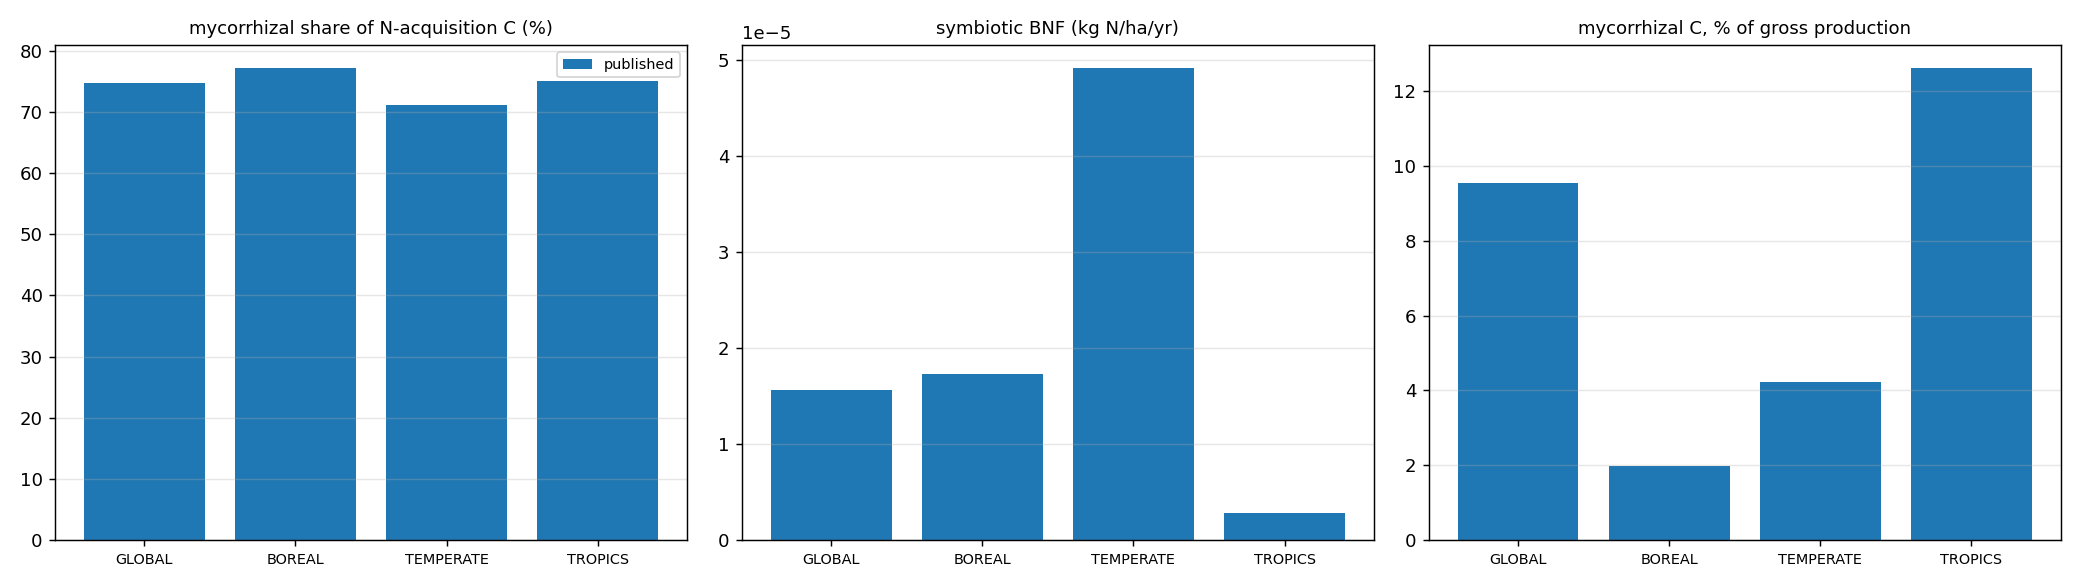
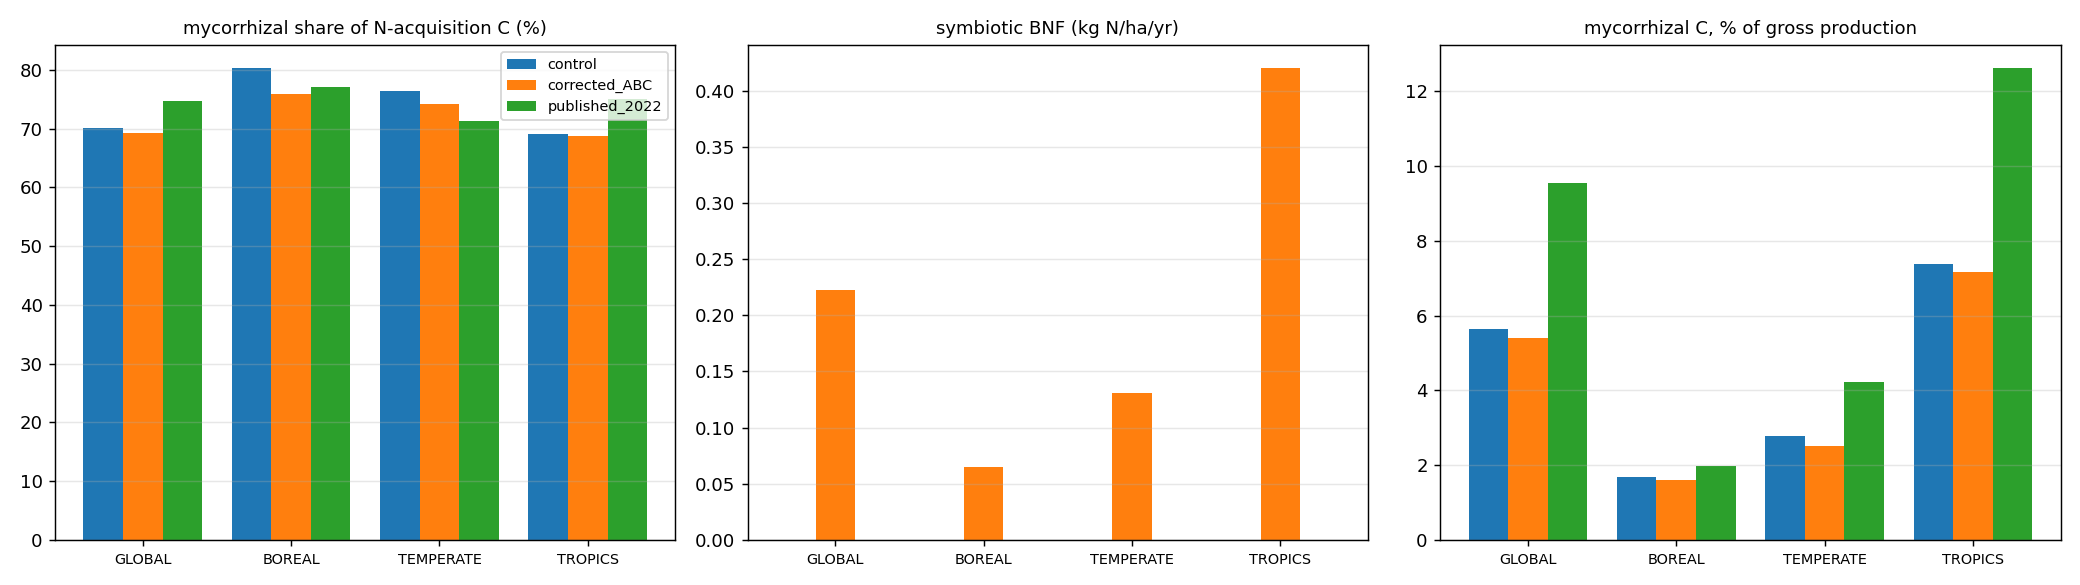
Automated end-of-run analysis: control vs corrected chains

diff --git a/analysis/CHAIN_REPORT.md b/analysis/CHAIN_REPORT.md
@@ -1,96 +1,96 @@
 # Control vs corrected — last decade of transient (area-weighted)
 
-Runs: published. Differences are relative to `published`.
+Runs: control, corrected_ABC, published_2022. Differences are relative to `control`.
 
 
 ## GLOBAL
 
-| quantity | published |  |
-|---|---|
-| NPP gC/m2/yr | 189 |  |
-| GPP gC/m2/yr | 768 |  |
-| TOTVEGC kgC/m2 | 2.94 |  |
-| TOTSOMC kgC/m2 | 13.8 |  |
-| TOTECOSYSC kgC/m2 | 17.3 |  |
-| TOTVEGN gN/m2 | 55.2 |  |
-| SMINN gN/m2 | 36.8 |  |
-| myc %N-acq C | 74.7 |  |
-| nonmyc %N-acq C | 24.7 |  |
-| fix %N-acq C | 0.0262 |  |
-| AM share of myc N-C % | nan |  |
-| P myc %P-acq C | 47.2 |  |
-| myc C gC/m2/yr | 23.2 |  |
-| myc C % gross prod | 9.56 |  |
-| FUN cost % gross prod | 22.3 |  |
-| symbiotic NFIX kgN/ha/yr | 1.56e-05 |  |
-| free-living FFIX kgN/ha/yr | 2.67 |  |
-| realized fix cost gC/gN | 3.88e+03 |  |
+| quantity | control | corrected_ABC | published_2022 | Δ corrected_ABC−control | Δ published_2022−control |
+|---|---|---|---|---|---|
+| NPP gC/m2/yr | 253 | 254 | 189 | +1.14 | -64.5 |
+| GPP gC/m2/yr | 849 | 850 | 768 | +1.52 | -80.7 |
+| TOTVEGC kgC/m2 | 2.97 | 2.98 | 2.94 | +0.00484 | -0.0316 |
+| TOTSOMC kgC/m2 | 13.8 | 13.8 | 13.8 | +0.0179 | -0.027 |
+| TOTECOSYSC kgC/m2 | 17.4 | 17.4 | 17.3 | +0.0238 | -0.0613 |
+| TOTVEGN gN/m2 | 56.4 | 56.6 | 55.2 | +0.16 | -1.2 |
+| SMINN gN/m2 | 36.3 | 36.4 | 36.8 | +0.045 | +0.524 |
+| myc %N-acq C | 70.1 | 69.3 | 74.7 | -0.791 | +4.64 |
+| nonmyc %N-acq C | 22.3 | 22.2 | 24.7 | -0.117 | +2.4 |
+| fix %N-acq C | 0.0313 | 0.906 | 0.0262 | +0.875 | -0.00514 |
+| AM share of myc N-C % | 91 | 92.1 | nan | +1.17 | +nan |
+| P myc %P-acq C | 50.2 | 50.2 | 47.2 | -0.00555 | -3.02 |
+| myc C gC/m2/yr | 17.2 | 16.4 | 23.2 | -0.774 | +6.06 |
+| myc C % gross prod | 5.65 | 5.39 | 9.56 | -0.257 | +3.91 |
+| FUN cost % gross prod | 16.6 | 16.3 | 22.3 | -0.338 | +5.69 |
+| symbiotic NFIX kgN/ha/yr | 1.69e-05 | 0.223 | 1.56e-05 | +0.223 | -1.3e-06 |
+| free-living FFIX kgN/ha/yr | 2.69 | 2.69 | 2.67 | +0.00124 | -0.0151 |
+| realized fix cost gC/gN | 3.8e+03 | 7.97 | 3.88e+03 | -3.79e+03 | +82.3 |
 
 ## BOREAL >50N
 
-| quantity | published |  |
-|---|---|
-| NPP gC/m2/yr | 133 |  |
-| GPP gC/m2/yr | 451 |  |
-| TOTVEGC kgC/m2 | 2.11 |  |
-| TOTSOMC kgC/m2 | 31 |  |
-| TOTECOSYSC kgC/m2 | 33.7 |  |
-| TOTVEGN gN/m2 | 42.5 |  |
-| SMINN gN/m2 | 110 |  |
-| myc %N-acq C | 77.2 |  |
-| nonmyc %N-acq C | 21.9 |  |
-| fix %N-acq C | 0.249 |  |
-| AM share of myc N-C % | nan |  |
-| P myc %P-acq C | 54.5 |  |
-| myc C gC/m2/yr | 2.83 |  |
-| myc C % gross prod | 1.97 |  |
-| FUN cost % gross prod | 7.73 |  |
-| symbiotic NFIX kgN/ha/yr | 1.73e-05 |  |
-| free-living FFIX kgN/ha/yr | 1.56 |  |
-| realized fix cost gC/gN | 1.69e+03 |  |
+| quantity | control | corrected_ABC | published_2022 | Δ corrected_ABC−control | Δ published_2022−control |
+|---|---|---|---|---|---|
+| NPP gC/m2/yr | 176 | 176 | 133 | -0.072 | -43.3 |
+| GPP gC/m2/yr | 503 | 503 | 451 | -0.255 | -52.1 |
+| TOTVEGC kgC/m2 | 2.12 | 2.12 | 2.11 | -0.000288 | -0.0167 |
+| TOTSOMC kgC/m2 | 31 | 31 | 31 | +0.000648 | +0.000815 |
+| TOTECOSYSC kgC/m2 | 33.7 | 33.7 | 33.7 | +0.000187 | -0.0167 |
+| TOTVEGN gN/m2 | 42.7 | 42.7 | 42.5 | +0.0251 | -0.212 |
+| SMINN gN/m2 | 109 | 109 | 110 | +0.129 | +0.226 |
+| myc %N-acq C | 80.3 | 76 | 77.2 | -4.32 | -3.12 |
+| nonmyc %N-acq C | 18.8 | 18 | 21.9 | -0.793 | +3.16 |
+| fix %N-acq C | 0.245 | 5.6 | 0.249 | +5.36 | +0.00404 |
+| AM share of myc N-C % | 36.5 | 38 | nan | +1.48 | +nan |
+| P myc %P-acq C | 54.5 | 54.5 | 54.5 | -0.00944 | -0.0132 |
+| myc C gC/m2/yr | 3.18 | 3.02 | 2.83 | -0.159 | -0.346 |
+| myc C % gross prod | 1.69 | 1.61 | 1.97 | -0.0827 | +0.283 |
+| FUN cost % gross prod | 6.59 | 6.52 | 7.73 | -0.0718 | +1.14 |
+| symbiotic NFIX kgN/ha/yr | 1.86e-05 | 0.0649 | 1.73e-05 | +0.0649 | -1.33e-06 |
+| free-living FFIX kgN/ha/yr | 1.57 | 1.57 | 1.56 | -0.000465 | -0.0114 |
+| realized fix cost gC/gN | 1.69e+03 | 9.95 | 1.69e+03 | -1.68e+03 | -4.18 |
 
 ## TEMPERATE 30-50N
 
-| quantity | published |  |
-|---|---|
-| NPP gC/m2/yr | 128 |  |
-| GPP gC/m2/yr | 462 |  |
-| TOTVEGC kgC/m2 | 1.71 |  |
-| TOTSOMC kgC/m2 | 11 |  |
-| TOTECOSYSC kgC/m2 | 13.3 |  |
-| TOTVEGN gN/m2 | 41.6 |  |
-| SMINN gN/m2 | 31.8 |  |
-| myc %N-acq C | 71.2 |  |
-| nonmyc %N-acq C | 26.2 |  |
-| fix %N-acq C | 0.168 |  |
-| AM share of myc N-C % | nan |  |
-| P myc %P-acq C | 49.1 |  |
-| myc C gC/m2/yr | 6.18 |  |
-| myc C % gross prod | 4.21 |  |
-| FUN cost % gross prod | 12.9 |  |
-| symbiotic NFIX kgN/ha/yr | 4.91e-05 |  |
-| free-living FFIX kgN/ha/yr | 2.25 |  |
-| realized fix cost gC/gN | 1.58e+03 |  |
+| quantity | control | corrected_ABC | published_2022 | Δ corrected_ABC−control | Δ published_2022−control |
+|---|---|---|---|---|---|
+| NPP gC/m2/yr | 173 | 173 | 128 | +0.587 | -44.9 |
+| GPP gC/m2/yr | 516 | 517 | 462 | +0.49 | -53.9 |
+| TOTVEGC kgC/m2 | 1.73 | 1.74 | 1.71 | +0.00401 | -0.0219 |
+| TOTSOMC kgC/m2 | 11.1 | 11.1 | 11 | +0.0213 | -0.0135 |
+| TOTECOSYSC kgC/m2 | 13.3 | 13.4 | 13.3 | +0.0263 | -0.0369 |
+| TOTVEGN gN/m2 | 42.3 | 42.5 | 41.6 | +0.198 | -0.727 |
+| SMINN gN/m2 | 31.4 | 31.4 | 31.8 | +0.0253 | +0.405 |
+| myc %N-acq C | 76.4 | 74.2 | 71.2 | -2.12 | -5.13 |
+| nonmyc %N-acq C | 19.8 | 20.2 | 26.2 | +0.32 | +6.38 |
+| fix %N-acq C | 0.211 | 3.74 | 0.168 | +3.53 | -0.0432 |
+| AM share of myc N-C % | 55 | 61.9 | nan | +6.87 | +nan |
+| P myc %P-acq C | 50.8 | 50.8 | 49.1 | +0.000251 | -1.68 |
+| myc C gC/m2/yr | 5.35 | 4.79 | 6.18 | -0.559 | +0.838 |
+| myc C % gross prod | 2.79 | 2.5 | 4.21 | -0.291 | +1.42 |
+| FUN cost % gross prod | 9.79 | 9.45 | 12.9 | -0.343 | +3.07 |
+| symbiotic NFIX kgN/ha/yr | 5.37e-05 | 0.131 | 4.91e-05 | +0.131 | -4.52e-06 |
+| free-living FFIX kgN/ha/yr | 2.26 | 2.26 | 2.25 | +0.000226 | -0.0133 |
+| realized fix cost gC/gN | 1.55e+03 | 9.41 | 1.58e+03 | -1.54e+03 | +29.8 |
 
 ## TROPICS 23S-23N
 
-| quantity | published |  |
-|---|---|
-| NPP gC/m2/yr | 346 |  |
-| GPP gC/m2/yr | 1.5e+03 |  |
-| TOTVEGC kgC/m2 | 5.81 |  |
-| TOTSOMC kgC/m2 | 10.7 |  |
-| TOTECOSYSC kgC/m2 | 17.3 |  |
-| TOTVEGN gN/m2 | 95 |  |
-| SMINN gN/m2 | 8.33 |  |
-| myc %N-acq C | 75.1 |  |
-| nonmyc %N-acq C | 24.5 |  |
-| fix %N-acq C | 0.00999 |  |
-| AM share of myc N-C % | nan |  |
-| P myc %P-acq C | 46.3 |  |
-| myc C gC/m2/yr | 60 |  |
-| myc C % gross prod | 12.6 |  |
-| FUN cost % gross prod | 27.3 |  |
-| symbiotic NFIX kgN/ha/yr | 2.77e-06 |  |
-| free-living FFIX kgN/ha/yr | 4.66 |  |
-| realized fix cost gC/gN | 2.25e+04 |  |
+| quantity | control | corrected_ABC | published_2022 | Δ corrected_ABC−control | Δ published_2022−control |
+|---|---|---|---|---|---|
+| NPP gC/m2/yr | 464 | 467 | 346 | +2.81 | -118 |
+| GPP gC/m2/yr | 1.65e+03 | 1.66e+03 | 1.5e+03 | +4.51 | -150 |
+| TOTVEGC kgC/m2 | 5.86 | 5.87 | 5.81 | +0.00999 | -0.0585 |
+| TOTSOMC kgC/m2 | 10.7 | 10.8 | 10.7 | +0.0337 | -0.0637 |
+| TOTECOSYSC kgC/m2 | 17.4 | 17.4 | 17.3 | +0.0459 | -0.128 |
+| TOTVEGN gN/m2 | 97.6 | 97.8 | 95 | +0.2 | -2.57 |
+| SMINN gN/m2 | 7.69 | 7.7 | 8.33 | +0.0108 | +0.647 |
+| myc %N-acq C | 69.2 | 68.7 | 75.1 | -0.458 | +5.88 |
+| nonmyc %N-acq C | 22.5 | 22.4 | 24.5 | -0.136 | +1.95 |
+| fix %N-acq C | 0.0139 | 0.582 | 0.00999 | +0.568 | -0.00395 |
+| AM share of myc N-C % | 95.4 | 95.5 | nan | +0.12 | +nan |
+| P myc %P-acq C | 48.8 | 48.8 | 46.3 | -0.00146 | -2.53 |
+| myc C gC/m2/yr | 43 | 41.7 | 60 | -1.28 | +17 |
+| myc C % gross prod | 7.39 | 7.16 | 12.6 | -0.233 | +5.23 |
+| FUN cost % gross prod | 20.3 | 20 | 27.3 | -0.341 | +6.98 |
+| symbiotic NFIX kgN/ha/yr | 3.37e-06 | 0.42 | 2.77e-06 | +0.42 | -5.95e-07 |
+| free-living FFIX kgN/ha/yr | 4.68 | 4.69 | 4.66 | +0.00401 | -0.0253 |
+| realized fix cost gC/gN | 2.3e+04 | 7.5 | 2.25e+04 | -2.3e+04 | -510 |

diff --git a/analysis/ashley/reply_to_ashley.md b/analysis/ashley/reply_to_ashley.md
@@ -6,11 +6,11 @@ Great to hear the paper is moving, and thanks for asking before comparing. You p
 
 What went wrong with the comparison. COST_NACTIVE and COST_PACTIVE are not amounts of carbon. They are exchange rates: how many grams of nitrogen (or phosphorus) a plant gets back for each gram of carbon it pays its fungi. Adding a nitrogen rate to a phosphorus rate does not give a physical quantity, and neither is carbon allocation. Your boreal points landing on the 1:1 line was a coincidence: in boreal soils the model's nitrogen rate happens to be about 5 grams of nitrogen per gram of carbon, close to your allocation numbers there, while elsewhere it is 1 to 2. Figure 2 shows this side by side with the corrected version.
 
-What to use instead. The model does track the carbon plants actually spend on mycorrhizal uptake: NPP_NACTIVE (for nitrogen) plus NPP_PACTIVE (for phosphorus), in grams of carbon per square metre per second. That sum is the layer directly comparable to your hyphal allocation. It covers AM and EcM together, and it excludes uptake by roots alone, nitrogen fixation and nutrient recycling inside the plant.
+What to use instead. The model does track the carbon plants actually spend on mycorrhizal uptake: NPP_NACTIVE (for nitrogen) plus NPP_PACTIVE (for phosphorus), in grams of carbon per square metre per second. Both are in the Zenodo time-mean file you already have (ELM_FUNP.clm2.h0.1994-2005.timemean.nc), and I have also attached them extracted and converted to grams per square metre per year. That sum is the layer directly comparable to your hyphal allocation. It covers AM and EcM together, and it excludes uptake by roots alone, nitrogen fixation and nutrient recycling inside the plant.
 
-One detail for turning it into a fraction of NPP. In this version of the model the carbon paid for nutrients is counted as respiration, so the NPP in the files is what is left after the plant has paid. To match the NPP you partition, add the payment back: NPP plus NPP_NUPTAKE plus NPP_PUPTAKE. I would not use the "available carbon" variable you saw in the supplement. That is photosynthesis minus maintenance respiration, a much larger pool (90 billion tonnes of carbon per year globally), so any fraction of it looks several times smaller than a fraction of NPP.
+One detail for turning it into a fraction of NPP. In this version of the model the carbon paid for nutrients is counted as respiration, so the NPP in the files is what is left after the plant has paid. To match the NPP you partition, add the payment back: NPP plus NPP_NUPTAKE plus NPP_PUPTAKE (all three also in the Zenodo file). I would not use the "available carbon" variable you saw in the supplement. That is photosynthesis minus maintenance respiration, a much larger pool (90 billion tonnes of carbon per year globally), so any fraction of it looks several times smaller than a fraction of NPP.
 
-What the model says (Figure 1, 1994 to 2005 average, the period used in the paper). Globally, plants in ELM-FUN spend about 3.8 billion tonnes of carbon per year on mycorrhizal uptake, roughly 8 percent of NPP. The pattern is the reverse of what your first plot suggested: the model spends least in boreal forests (about 3 grams of carbon per square metre per year, 2 percent of NPP) and most in the tropics (about 65, or 11 percent). For your groups, the model sits well below your estimates for all forest types, by a factor of 3 to 9 for the EcM groups and about 2 for AM trees, and above your estimates for grasses and crops. The natural grass value in the model is oddly high (127 grams of carbon per square metre per year) and I would not read much into it. One practical note: please use 1994 to 2005 averages of that run. Its final year is not usable because the CO2 forcing file ended early, which is one of the things the rerun fixes.
+What the model says (Figure 1, 1994 to 2005 average, the period used in the paper). Globally, plants in ELM-FUN spend about 3.8 billion tonnes of carbon per year on mycorrhizal uptake, roughly 8 percent of NPP. The pattern is the reverse of what your first plot suggested: the model spends least in boreal forests (about 3 grams of carbon per square metre per year, 2 percent of NPP) and most in the tropics (about 65, or 11 percent). For your groups, the model sits well below your estimates for all forest types, by a factor of 3 to 9 for the EcM groups and about 2 for AM trees, and above your estimates for grasses and crops. The natural grass value in the model is oddly high (127 grams of carbon per square metre per year) and I would not read much into it. The Zenodo files cover exactly the right years (1994 to 2005), so nothing changes on your side there.
 
 Why the two differ. Your rates are fixed fractions from tracer studies. The model's plants shop for the cheapest nutrient source every hour, so they pay fungi little where soil nutrients are plentiful and more where they are scarce. That is a genuine reason to disagree, and an interesting one for the paper. The model also assumes one mycorrhizal type per plant type (conifers and boreal plants EcM, tropical trees, grasses and crops AM, temperate deciduous trees half and half) rather than a map, and the published files only contain the AM and EcM total, not the split.
 
